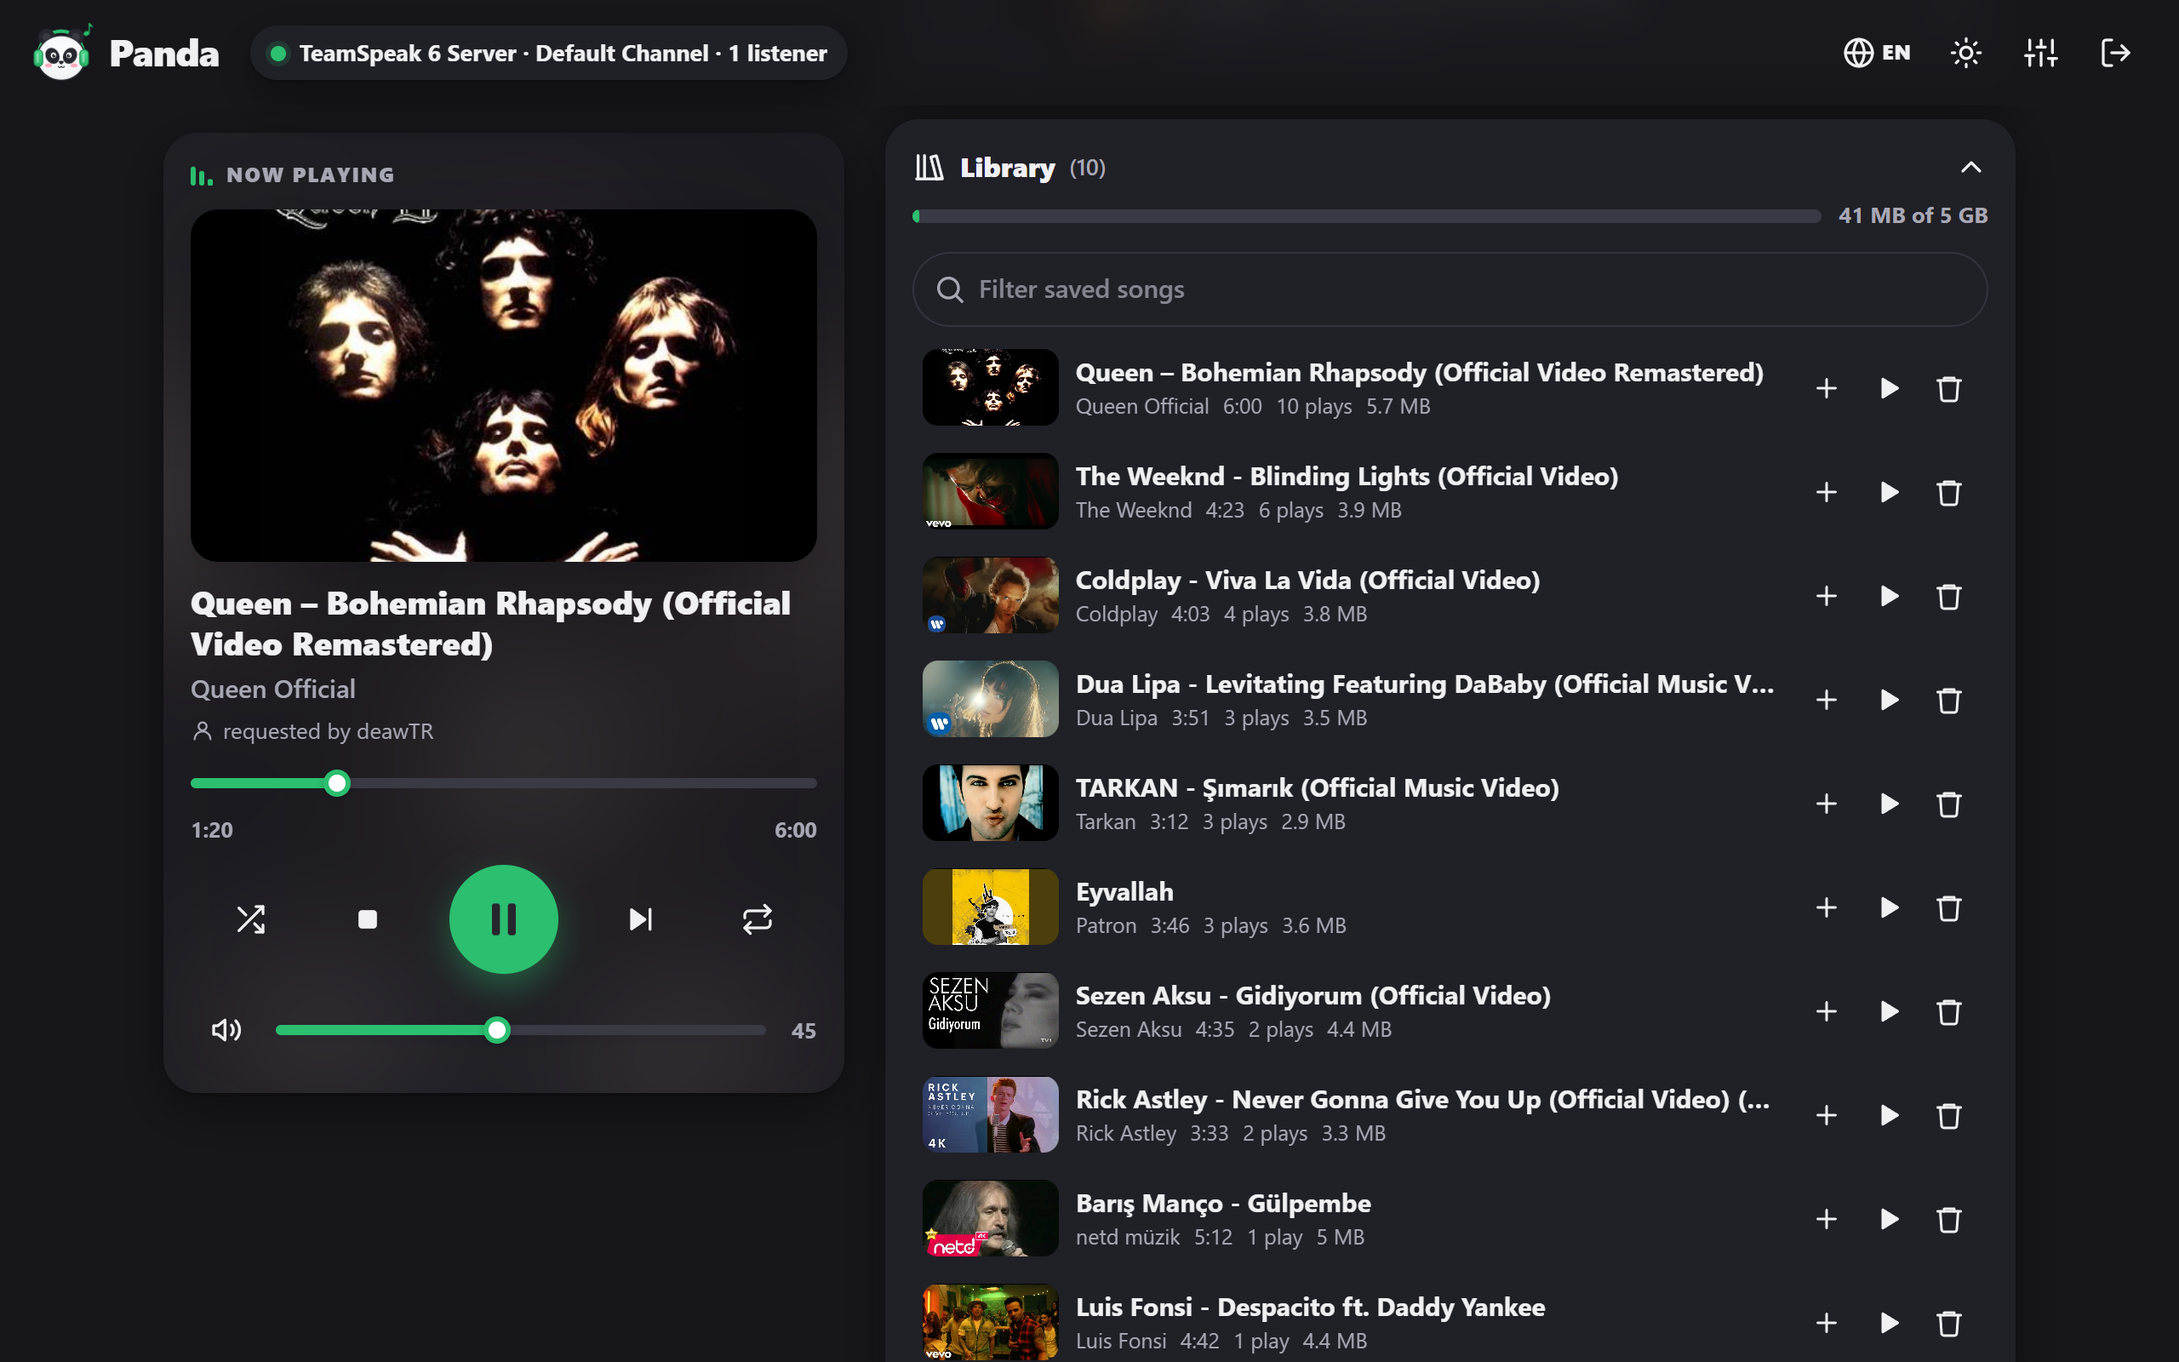
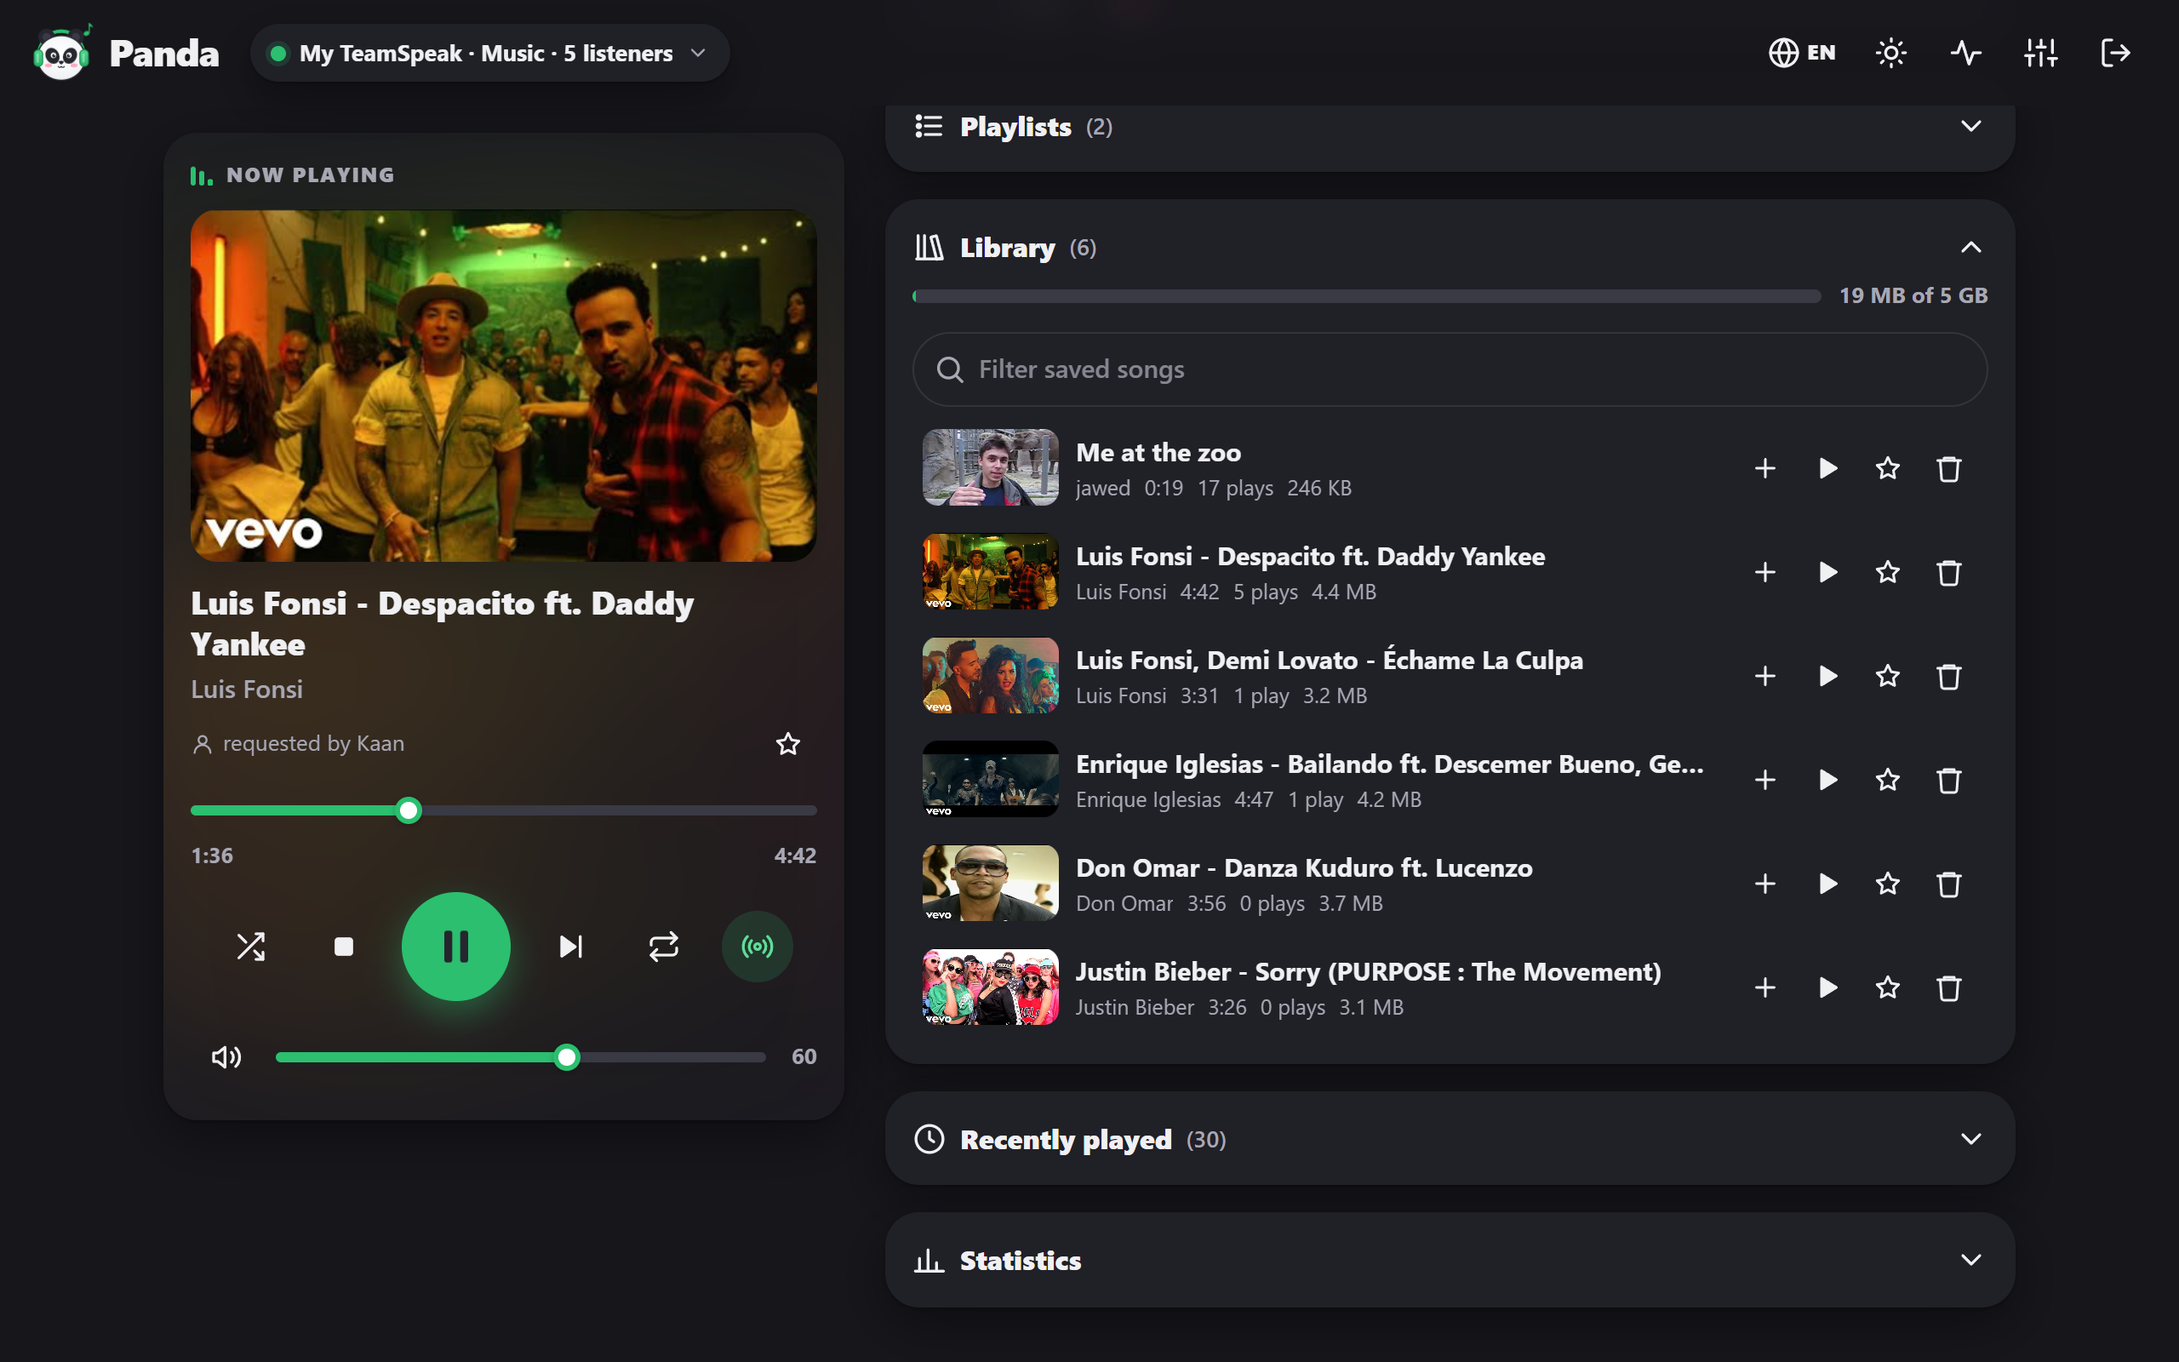
New screenshots and website for 0.3.0; load statistics that were left open
The statistics card loaded nothing when it was already open on page load. README and the website show the new panel, statistics and System screen and list the new features and commands.

diff --git a/site/index.html b/site/index.html
@@ -35,6 +35,7 @@
       <span class="chip" data-i18n="chip.ts6">Works with TeamSpeak 6</span>
       <span class="chip" data-i18n="chip.oss">Open source</span>
       <span class="chip" data-i18n="chip.key">No API key</span>
+      <span class="chip" data-i18n="chip.bots">Several bots</span>
       <span class="chip" data-i18n="chip.light">~130 MB RAM</span>
     </div>
     <div class="cta">
@@ -56,12 +57,27 @@
       <article class="card"><div class="ico">📚</div><h3 data-i18n="f2.t">A song library</h3><p data-i18n="f2.d">Every requested song is saved. Favourites start instantly and never hit YouTube again; when it's full, the least played songs make room.</p></article>
       <article class="card"><div class="ico">⚡</div><h3 data-i18n="f3.t">No waiting</h3><p data-i18n="f3.d">Upcoming songs are downloaded ahead of time, so the next song starts the moment the last one ends.</p></article>
       <article class="card"><div class="ico">🎵</div><h3 data-i18n="f4.t">Any YouTube link</h3><p data-i18n="f4.d">Song names, youtube.com, youtu.be, YouTube Music, Shorts. Playlist links add just one song instead of loading the whole list.</p></article>
-      <article class="card"><div class="ico">🌐</div><h3 data-i18n="f5.t">A panel you'll like</h3><p data-i18n="f5.d">Now playing, drag &amp; drop queue, search, library, history, volume, loop and seek. Light and dark, English and Turkish, works on phones.</p></article>
+      <article class="card"><div class="ico">📻</div><h3 data-i18n="f9.t">Radio</h3><p data-i18n="f9.d">When the queue runs out, Panda keeps playing songs like the last one, from YouTube's Mix. Off until you turn it on.</p></article>
+      <article class="card"><div class="ico">🤖</div><h3 data-i18n="f10.t">Several bots, one panel</h3><p data-i18n="f10.d">Run a bot per server or channel, each with its own queue and settings, from a single install and a single song library.</p></article>
+      <article class="card"><div class="ico">📃</div><h3 data-i18n="f12.t">Playlists &amp; favorites</h3><p data-i18n="f12.d">Save the queue or single songs into playlists and play them with <code>!playlist</code>. <code>!fav</code> keeps the song you like.</p></article>
+      <article class="card"><div class="ico">🔊</div><h3 data-i18n="f13.t">Equal loudness</h3><p data-i18n="f13.d">Saved songs are measured once and play equally loud, so nobody has to ride the volume slider.</p></article>
+      <article class="card"><div class="ico">🌐</div><h3 data-i18n="f5.t">A panel you'll like</h3><p data-i18n="f5.d">Now playing, drag &amp; drop queue, search, library, playlists, history with times, statistics, volume, loop and seek. Light and dark, English and Turkish, works on phones.</p></article>
+      <article class="card"><div class="ico">👥</div><h3 data-i18n="f11.t">Users and roles</h3><p data-i18n="f11.d">Give friends their own panel login. Admins can do everything; "can only add songs" users watch and add songs.</p></article>
       <article class="card"><div class="ico">💬</div><h3 data-i18n="f6.t">Chat commands</h3><p data-i18n="f6.d"><code>!play</code>, <code>!skip</code>, <code>!queue</code>… in English or Turkish. Limit who can use them with TeamSpeak UIDs or server groups.</p></article>
-      <article class="card"><div class="ico">🍪</div><h3 data-i18n="f7.t">Bot check? Solved.</h3><p data-i18n="f7.d">When YouTube asks to "confirm you're not a bot", paste your cookies in the panel and carry on.</p></article>
-      <article class="card"><div class="ico">📦</div><h3 data-i18n="f8.t">One-line install</h3><p data-i18n="f8.d">One command sets up everything on Linux and keeps yt-dlp up to date. Docker, Windows and macOS builds too.</p></article>
+      <article class="card"><div class="ico">📦</div><h3 data-i18n="f8.t">One-line install</h3><p data-i18n="f8.d">One command sets up everything on Linux and keeps yt-dlp up to date; later updates are one click in the panel. Docker, Windows and macOS builds too.</p></article>
     </div>
   </section>
+
+  <section class="section split">
+    <div>
+      <h2 data-i18n="sys.title">See what's going on</h2>
+      <p data-i18n="sys.p1">The <b>Statistics</b> card shows plays, time listened, the busiest days and hours, the most played songs and who asked for the most.</p>
+      <p data-i18n="sys.p2">The <b>System</b> screen shows CPU, memory and disk, every bot's connection and the live log, and tells you when a new version is out.</p>
+    </div>
+    <figure class="shot small"><img src="img/system.png" alt="The System screen with status cards" width="800" height="500" loading="lazy"></figure>
+  </section>
+
+  <figure class="shot center"><img src="img/statistics.png" alt="Statistics: plays per day and hour, most played songs" width="800" height="500" loading="lazy"></figure>
 
   <section class="section split">
     <div>
@@ -77,7 +93,7 @@
     <p class="lead" data-i18n="install.lead">On a Linux server (Ubuntu, Debian, Fedora, Arch; x64 or ARM):</p>
     <div class="code"><pre><code id="cmd">curl -fsSL https://raw.githubusercontent.com/KaanBahaSever/panda/main/scripts/install.sh | sudo bash</code></pre><button class="copy" type="button" data-copy="cmd" data-i18n="copy">Copy</button></div>
     <ol class="steps">
-      <li data-i18n="install.s1">The installer asks for your TeamSpeak server address and prints the panel address and password.</li>
+      <li data-i18n="install.s1">The installer asks for your TeamSpeak server address and prints the panel address and login (user <code>admin</code>).</li>
       <li data-i18n="install.s2">Open the panel and set the server password and channel under <b>Settings</b>.</li>
       <li data-i18n="install.s3">Write <code>!play</code> and a song in the bot's channel. That's it! 🎶</li>
     </ol>
@@ -108,6 +124,10 @@ docker compose logs panda   # panel password</code></pre><button class="copy" ty
       <div><code>!vol 40</code><code>!ses 40</code><span data-i18n="cmd.vol">Change the volume</span></div>
       <div><code>!loop</code><code>!tekrar</code><span data-i18n="cmd.loop">Repeat one song or the whole queue</span></div>
       <div><code>!join</code><code>!gel</code><span data-i18n="cmd.join">Come to my channel</span></div>
+      <div><code>!follow</code><code>!takip</code><span data-i18n="cmd.follow">Follow me from channel to channel</span></div>
+      <div><code>!radio</code><code>!radyo</code><span data-i18n="cmd.radio">Keep playing similar songs when the queue ends</span></div>
+      <div><code>!playlist rock</code><code>!liste rock</code><span data-i18n="cmd.playlist">Queue a saved playlist</span></div>
+      <div><code>!fav</code><code>!fav</code><span data-i18n="cmd.fav">Save the song playing to Favorites</span></div>
     </div>
   </section>
 
@@ -117,6 +137,7 @@ docker compose logs panda   # panel password</code></pre><button class="copy" ty
     <details class="faq"><summary data-i18n="faq.q2">Why can't SinusBot join my TeamSpeak 6 server?</summary><p data-i18n="faq.a2">TeamSpeak 6 servers only accept TeamSpeak 3 clients from version 3.6.0, and SinusBot runs an older one. Panda speaks the protocol itself and understands the new license data that TeamSpeak 6 sends while connecting.</p></details>
     <details class="faq"><summary data-i18n="faq.q3">YouTube says "confirm you're not a bot"</summary><p data-i18n="faq.a3">That happens on some server IPs. Log in to YouTube in a private window, export the cookies with a cookies.txt extension, close the window and paste them in Settings → YouTube cookies.</p></details>
     <details class="faq"><summary data-i18n="faq.q4">How much does it need?</summary><p data-i18n="faq.a4">Very little: the bot uses about 130 MB of RAM, and yt-dlp and ffmpeg only run while a song plays. A small VPS next to your TeamSpeak server is plenty.</p></details>
+    <details class="faq"><summary data-i18n="faq.q6">How do I update?</summary><p data-i18n="faq.a6">On Linux installs, open <b>System → Updates</b> in the panel and click <b>Update now</b> (or run the installer again). With Docker: <code>git pull &amp;&amp; docker compose up -d --build</code>.</p></details>
     <details class="faq"><summary data-i18n="faq.q5">Is it free?</summary><p data-i18n="faq.a5">Yes, Panda is open source under the Open Software License 3.0. Ideas, bug reports and pull requests are welcome on GitHub.</p></details>
   </section>
 </main>

diff --git a/site/app.js b/site/app.js
@@ -9,6 +9,7 @@ const tr = {
   "chip.ts6": "TeamSpeak 6 ile çalışır",
   "chip.oss": "Açık kaynak",
   "chip.key": "API anahtarı gerekmez",
+  "chip.bots": "Birden fazla bot",
   "chip.light": "~130 MB RAM",
   "hero.start": "Hemen başla",
   "hero.download": "İndir",
@@ -23,13 +24,24 @@ const tr = {
   "f4.t": "Her YouTube linki",
   "f4.d": "Şarkı adı, youtube.com, youtu.be, YouTube Music, Shorts. Çalma listesi linkleri tüm listeyi açmak yerine tek şarkı ekler.",
   "f5.t": "Seveceğin bir panel",
-  "f5.d": "Şimdi çalan, sürükle-bırak sıra, arama, kütüphane, geçmiş, ses, tekrar ve ileri sarma. Açık ve koyu tema, Türkçe ve İngilizce, telefonda da çalışır.",
+  "f5.d": "Şimdi çalan, sürükle-bırak sıra, arama, kütüphane, çalma listeleri, saatli geçmiş, istatistikler, ses, tekrar ve ileri sarma. Açık ve koyu tema, Türkçe ve İngilizce, telefonda da çalışır.",
+  "f9.t": "Radyo",
+  "f9.d": "Sıra bitince Panda son şarkıya benzer şarkılar çalmaya devam eder (YouTube Mix). Sen açana kadar kapalıdır.",
+  "f10.t": "Tek panelden birden fazla bot",
+  "f10.d": "Her sunucu ya da kanal için ayrı bot; her birinin kendi sırası ve ayarları var. Hepsi tek kurulum ve tek şarkı kütüphanesiyle çalışır.",
+  "f11.t": "Kullanıcılar ve yetkiler",
+  "f11.d": "Arkadaşlarına kendi panel girişlerini ver. Yöneticiler her şeyi yapar; \"sadece şarkı ekler\" kullanıcıları izler ve şarkı ekler.",
+  "f12.t": "Çalma listeleri ve favoriler",
+  "f12.d": "Sırayı ya da tek tek şarkıları listelere kaydet, <code>!liste</code> ile çal. <code>!fav</code> sevdiğin şarkıyı saklar.",
+  "f13.t": "Eşit ses seviyesi",
+  "f13.d": "Kaydedilen şarkılar bir kez ölçülür ve hepsi aynı yükseklikte çalar; kimse sürekli sesle oynamak zorunda kalmaz.",
+  "sys.title": "Neler olduğunu gör",
+  "sys.p1": "<b>İstatistikler</b> kartı çalma sayısını, dinlenen süreyi, en hareketli günleri ve saatleri, en çok çalınan şarkıları ve en çok isteyenleri gösterir.",
+  "sys.p2": "<b>Sistem</b> ekranı işlemciyi, belleği, diski, her botun bağlantısını ve canlı kayıtları gösterir; yeni sürüm çıkınca da haber verir.",
   "f6.t": "Sohbet komutları",
   "f6.d": "<code>!çal</code>, <code>!geç</code>, <code>!sıra</code>… Türkçe ya da İngilizce. Kimlerin kullanacağını TeamSpeak UID'leri veya sunucu gruplarıyla sınırlayabilirsin.",
-  "f7.t": "Bot kontrolü mü? Çözüldü.",
-  "f7.d": "YouTube \"bot olmadığını doğrula\" derse cookies'i panele yapıştır, devam et.",
   "f8.t": "Tek satırla kurulum",
-  "f8.d": "Tek komut Linux'ta her şeyi kurar ve yt-dlp'yi güncel tutar. Docker, Windows ve macOS sürümleri de var.",
+  "f8.d": "Tek komut Linux'ta her şeyi kurar ve yt-dlp'yi güncel tutar; sonraki güncellemeler panelden tek tık. Docker, Windows ve macOS sürümleri de var.",
   "lib.title": "Şarkıların kayıtlı",
   "lib.p1": "Panda istediğin her şarkıyı, senin belirlediğin boyuta kadar (varsayılan 5 GB) saklar. Kayıtlı şarkılar panelde dinlenme sayılarıyla görünür, hiç beklemeden başlar ve adıyla bulunur: <code>!çal şımarık</code> kayıtlı <i>Şımarık</i>'ı çalar.",
   "lib.p2": "Kütüphane dolunca en az dinlediğin şarkılar önce silinir; en sevdiklerin hep kalır.",
@@ -37,7 +49,7 @@ const tr = {
   "install.lead": "Bir Linux sunucuda (Ubuntu, Debian, Fedora, Arch; x64 ya da ARM):",
   "copy": "Kopyala",
   "copied": "Kopyalandı!",
-  "install.s1": "Kurulum TeamSpeak sunucu adresini sorar, sonunda panel adresini ve şifresini yazar.",
+  "install.s1": "Kurulum TeamSpeak sunucu adresini sorar, sonunda panel adresini ve giriş bilgisini yazar (kullanıcı <code>admin</code>).",
   "install.s2": "Paneli aç, <b>Ayarlar</b>'dan sunucu şifresini ve kanalı gir.",
   "install.s3": "Botun kanalına <code>!çal</code> ve bir şarkı yaz. Bu kadar! 🎶",
   "install.desktop": "Panda'yı <a href=\"https://github.com/KaanBahaSever/panda/releases/latest\">sürümler sayfasından</a> indir, <a href=\"https://ffmpeg.org/download.html\">ffmpeg</a>, <a href=\"https://github.com/yt-dlp/yt-dlp#installation\">yt-dlp</a> ve <a href=\"https://deno.com/\">deno</a>'yu kur, sonra <code>panda</code>'yı çalıştır.",
@@ -51,6 +63,10 @@ const tr = {
   "cmd.vol": "Sesi değiştir",
   "cmd.loop": "Bir şarkıyı ya da tüm sırayı tekrarla",
   "cmd.join": "Kanalıma gel",
+  "cmd.follow": "Beni kanaldan kanala takip et",
+  "cmd.radio": "Sıra bitince benzer şarkılar çalmaya devam et",
+  "cmd.playlist": "Kayıtlı bir listeyi sıraya ekle",
+  "cmd.fav": "Çalan şarkıyı Favoriler'e kaydet",
   "faq.title": "Sorular",
   "faq.q1": "YouTube API anahtarı gerekiyor mu?",
   "faq.a1": "Hayır. Panda, YouTube'u bir tarayıcı gibi okuyan yt-dlp'yi kullanır: API anahtarı, Google projesi ya da günlük kota yok.",
@@ -60,6 +76,8 @@ const tr = {
   "faq.a3": "Bu bazı sunucu IP'lerinde olur. Gizli pencerede YouTube'a giriş yap, cookies'i bir cookies.txt eklentisiyle dışa aktar, pencereyi kapat ve Ayarlar → YouTube cookies kısmına yapıştır.",
   "faq.q4": "Ne kadar kaynak ister?",
   "faq.a4": "Çok az: bot yaklaşık 130 MB RAM kullanır, yt-dlp ve ffmpeg sadece şarkı çalarken çalışır. TeamSpeak sunucunun yanındaki küçük bir VPS bol bol yeter.",
+  "faq.q6": "Nasıl güncellerim?",
+  "faq.a6": "Linux kurulumunda paneldeki <b>Sistem → Güncellemeler</b> kısmında <b>Şimdi güncelle</b>'ye bas (ya da kurulum komutunu tekrar çalıştır). Docker'da: <code>git pull &amp;&amp; docker compose up -d --build</code>.",
   "faq.q5": "Ücretsiz mi?",
   "faq.a5": "Evet, Panda Open Software License 3.0 ile açık kaynak. Fikirler, hata bildirimleri ve pull request'ler GitHub'da memnuniyetle karşılanır.",
   "foot.made": "🎧 ve bambuyla yapıldı.",

diff --git a/src/Panda/wwwroot/app.js b/src/Panda/wwwroot/app.js
@@ -368,6 +368,7 @@ async function loadBot() {
   try { setState(await api('GET', B('/state'))); }
   catch (e) { if (e.status !== 404) throw e; await pickBot(); setState(await api('GET', B('/state'))); }   // it was removed
   startStream();
+  if (statsBox.open) loadStats();   // open since the last visit: its "toggle" came before there was a state
 }
 /** After a stream error: check the session (401 → login), then reopen the stream. */
 async function recover() {

diff --git a/README.tr.md b/README.tr.md
@@ -62,6 +62,23 @@ indirir ve çaldıktan sonra siler.
 
 ![Koyu temada kütüphane](docs/library.png)
 
+## İstatistikler ve Sistem ekranı
+
+**İstatistikler** kartı neyin çalındığını gösterir:
+- çalma sayısı ve dinlenen süre,
+- günlere ve saatlere göre hareketlilik,
+- en çok çalınan şarkılar ve en çok isteyen kişiler.
+
+Yöneticilerin bir de **Sistem** ekranı var. Burada şunlar görünür:
+- işlemci, bellek ve disk,
+- her botun bağlantısı,
+- canlı kayıtlar,
+- güncellemeler.
+
+![İstatistikler](docs/statistics.png)
+
+![Sistem ekranı](docs/system.png)
+
 ## Kurulum (Linux)
 
 ```bash

diff --git a/README.md b/README.md
@@ -67,6 +67,16 @@ time and deletes it after playing.
 
 ![The library in dark mode](docs/library.png)
 
+## Statistics and the System screen
+
+The **Statistics** card shows what was played: plays, time listened, activity by day and hour, the most
+played songs and who asked for the most. Admins also get a **System** screen with CPU, memory and disk,
+every bot's connection, live logs and updates.
+
+![Statistics](docs/statistics.png)
+
+![The System screen](docs/system.png)
+
 ## Install (Linux)
 
 ```bash
